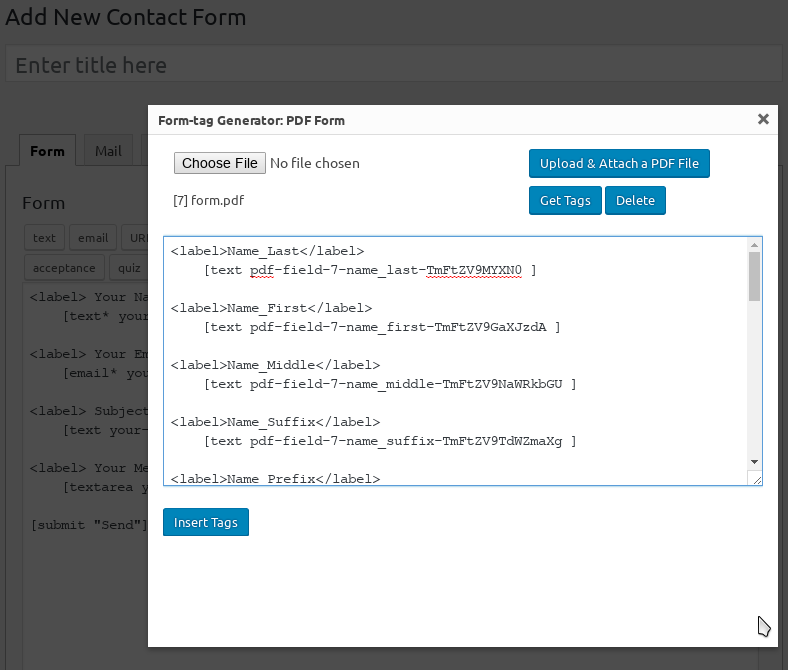
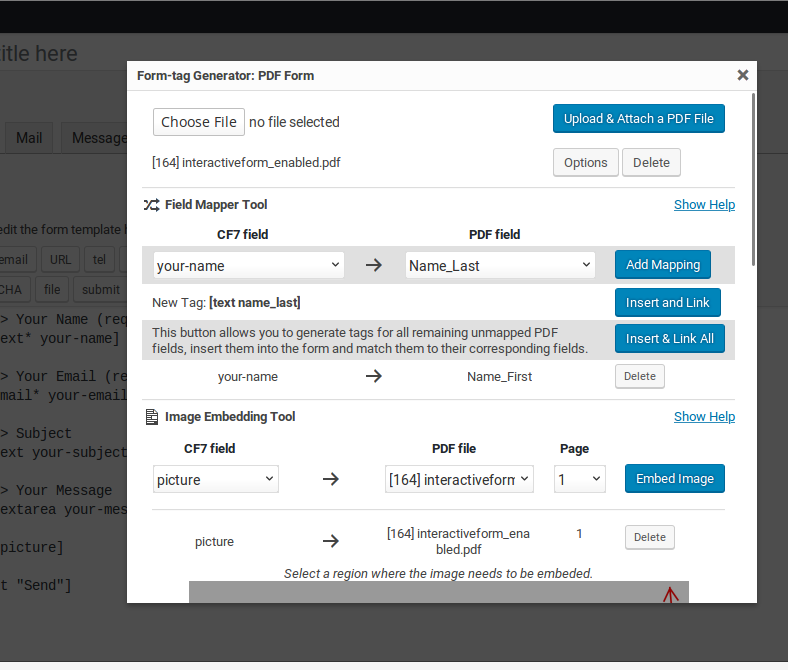
Version bump, readme and asset updates

diff --git a/wpcf7-pdf-forms.php b/wpcf7-pdf-forms.php
@@ -2,8 +2,8 @@
 /*
 Plugin Name: PDF Forms Filler for Contact Form 7
 Plugin URI: https://github.com/maximum-software/wpcf7-pdf-forms
-Description: Create Contact Form 7 forms from PDF forms.  Get <strong>PDF forms filled automatically</strong> and <strong>attached to email messages</strong> upon form submission on your website.  Uses <a href="https://pdf.ninja">Pdf.Ninja</a> API for working with PDF files.  See <a href="https://youtu.be/e4ur95rER6o">How-To Video</a> for a demo.
-Version: 0.4.2
+Description: Create Contact Form 7 forms from PDF forms.  Get <strong>PDF forms filled automatically</strong> and <strong>attached to email messages</strong> upon form submission on your website.  <strong>Embed images</strong> in PDF files.  Uses <a href="https://pdf.ninja">Pdf.Ninja</a> API for working with PDF files.  See <a href="https://youtu.be/e4ur95rER6o">How-To Video</a> for a demo.
+Version: 1.0.0
 Author: Maximum.Software
 Author URI: https://maximum.software/
 Text Domain: wpcf7-pdf-forms
@@ -17,7 +17,7 @@ if( ! class_exists( 'WPCF7_Pdf_Forms' ) )
 {
 	class WPCF7_Pdf_Forms
 	{
-		const VERSION = '0.4.2';
+		const VERSION = '1.0.0';
 		
 		private static $instance = null;
 		private $pdf_ninja_service = null;

diff --git a/README.md b/README.md
@@ -1,18 +1,18 @@
 # PDF Forms Filler for Contact Form 7
 
-Create Contact Form 7 forms from PDF forms.  Get PDF forms filled automatically and attached to email messages upon form submission on your website.
+Create Contact Form 7 forms from PDF forms.  Get PDF forms filled automatically and attached to email messages upon form submission on your website.  Embed images in PDF files.
 
 ## Description
 
-[![PDF Forms Filler for Contact Form 7 Demo](https://img.youtube.com/vi/e4ur95rER6o/0.jpg)](https://www.youtube.com/watch?v=e4ur95rER6o "PDF Forms Filler for Contact Form 7 Demo")
+[![PDF Forms Filler for Contact Form 7 Tutorial](https://img.youtube.com/vi/e4ur95rER6o/0.jpg)](https://www.youtube.com/watch?v=e4ur95rER6o "PDF Forms Filler for Contact Form 7 Tutorial")
 
-This plugin gives WordPress Admin Panel users the ability to add PDF attachments to email messages of Contact Form 7.
+This plugin gives WordPress Admin Panel users the ability to add fillable PDF attachments to email messages of Contact Form 7.
 
-If the PDF attachment has a PDF form, the plugin allows users to add fields onto the CF7 form that are mapped to fields in the PDF form.
+If the PDF attachment has a PDF form, the plugin allows users to add fields to the CF7 form and/or link them to fields in the PDF.  The plugin also allows the attached PDF files to be embedded with images supplied by the CF7 form fields.
 
-When a website visitor submits the CF7 form, the form in the PDF file is filled with CF7 form information and the resulting PDF file is attached to the CF7 email message.
+When your website visitor submits the CF7 form, the form in the PDF file is filled with CF7 form information, images are embedded and the resulting PDF file is attached to the CF7 email message.
 
-An external web API (https://pdf.ninja) is used for filling PDF forms (free usage has limitations).  An Enterprise Extension, which enables performing all PDF operations locally on the web server (no external web API), is available upon request.
+An external web API (https://pdf.ninja) is used for filling PDF forms (free usage has limitations).  An Enterprise Extension, which enables performing all PDF operations locally on your web server (no external web API), is available upon request.
 
 ## Installation
 
